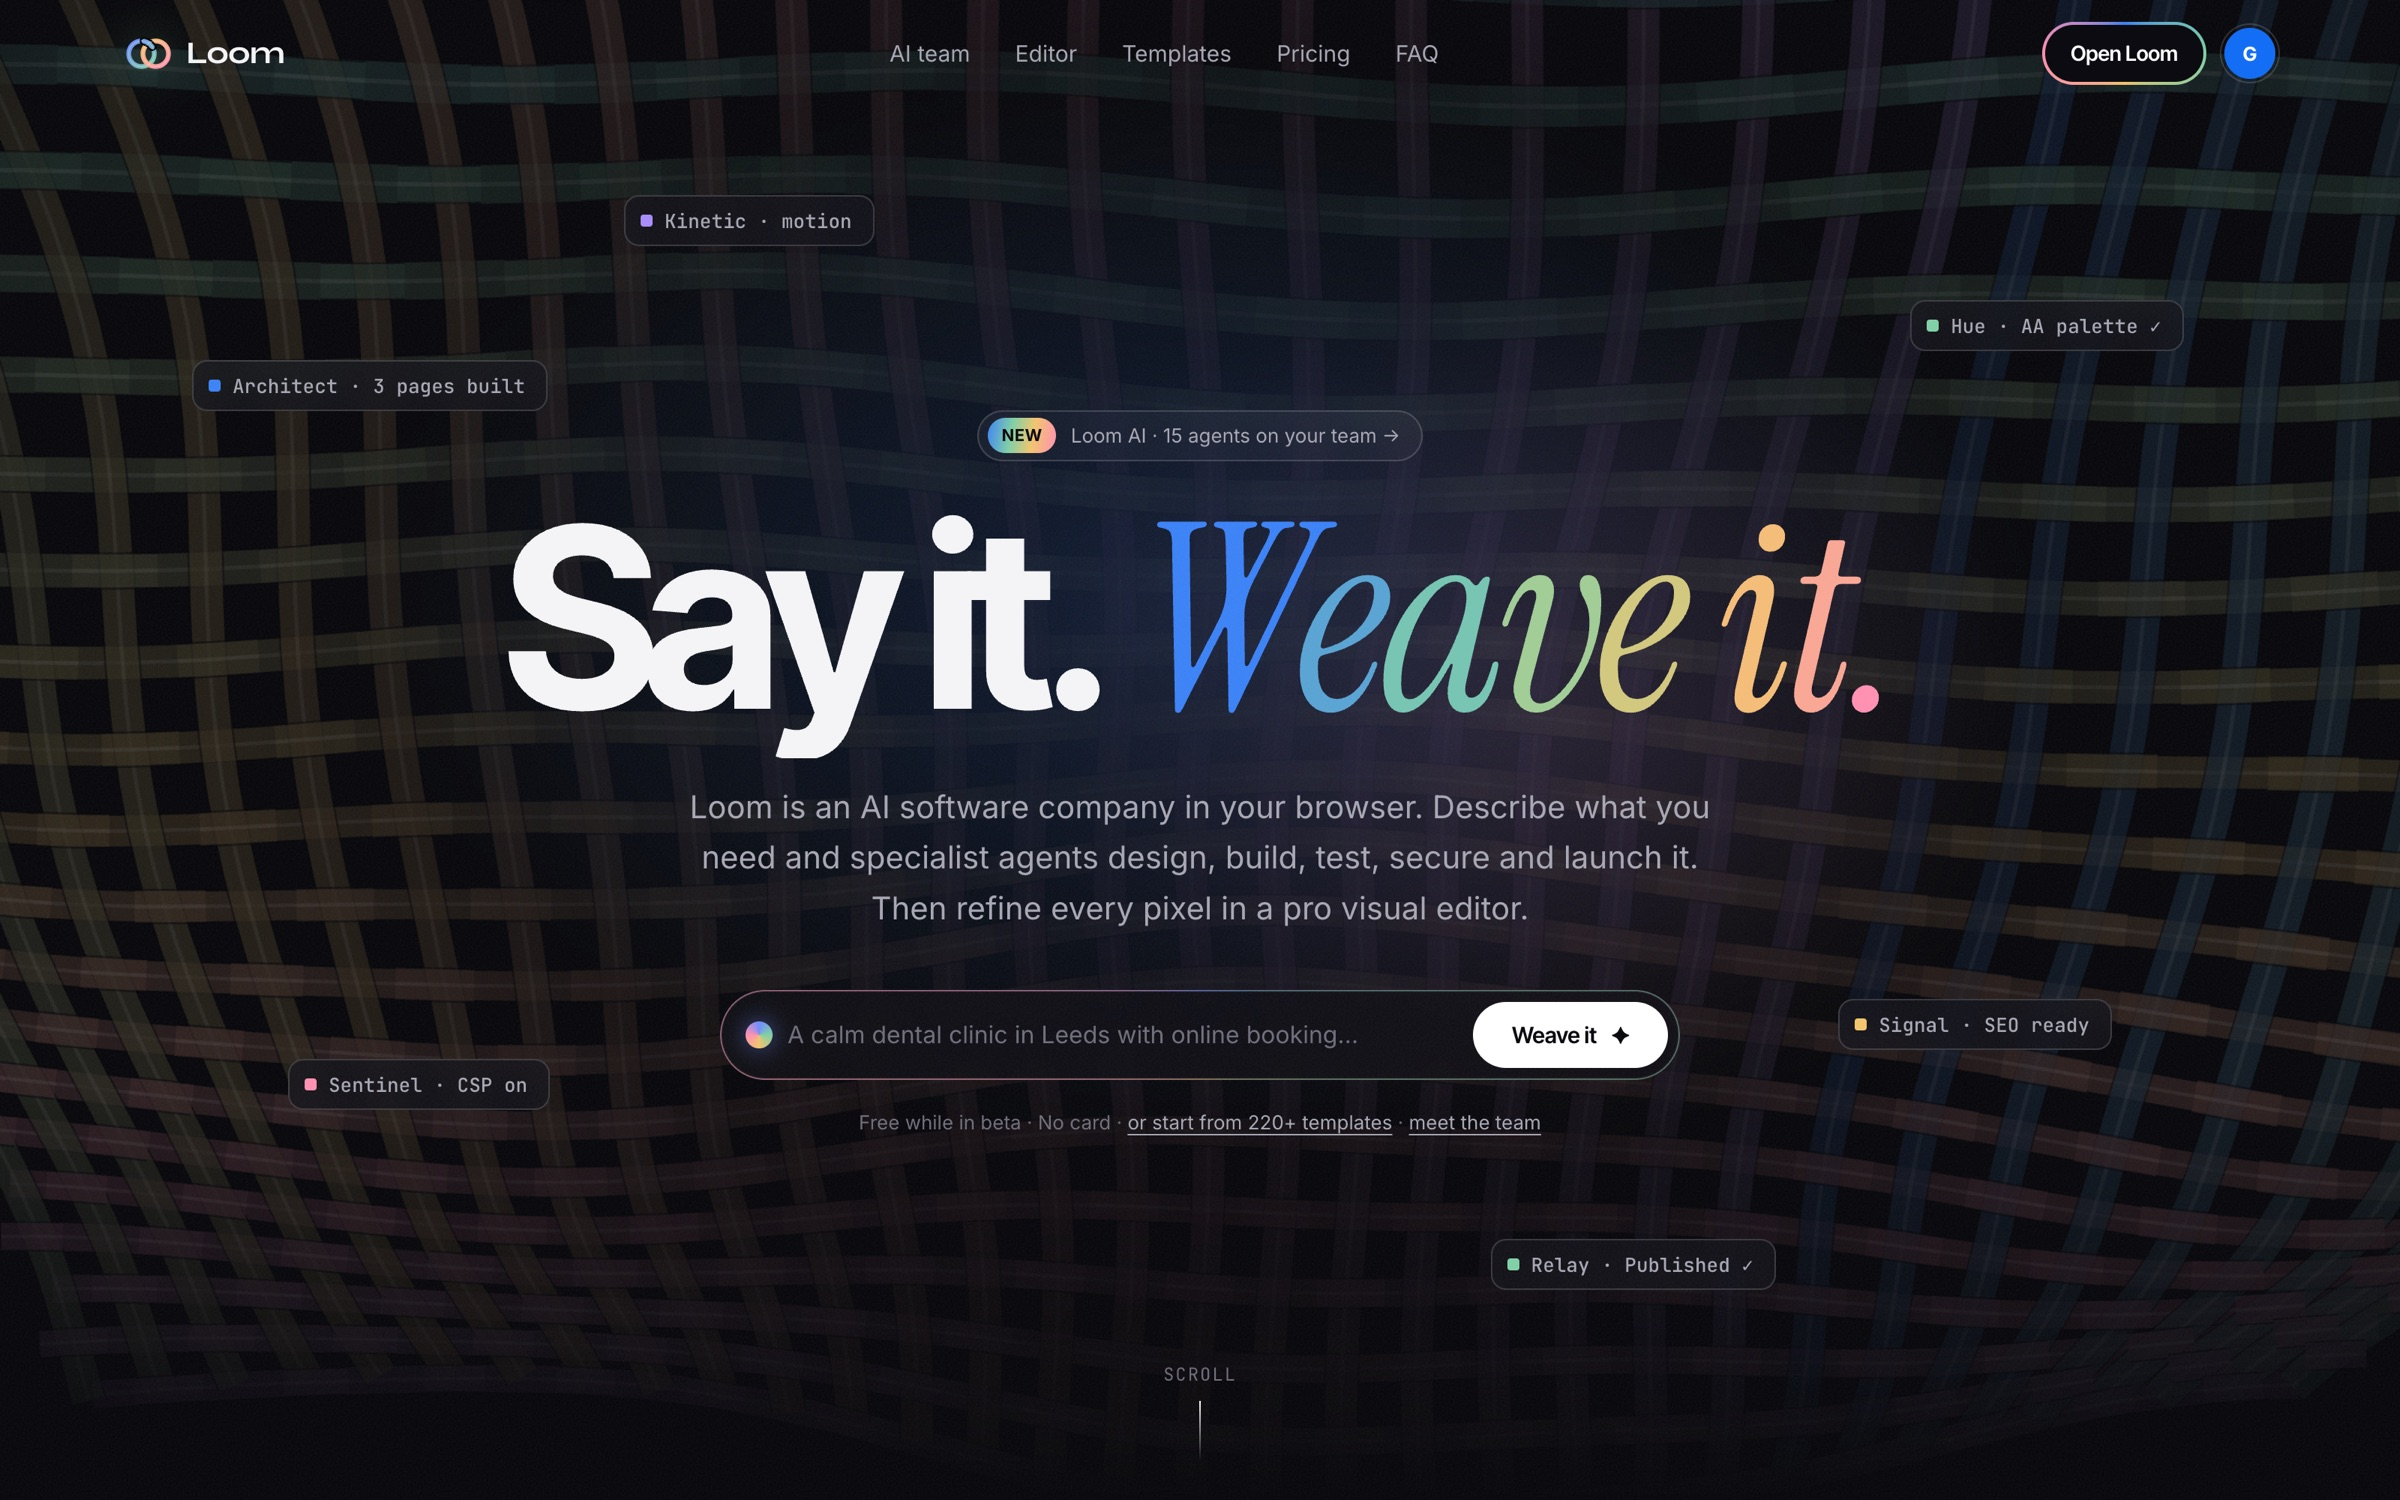
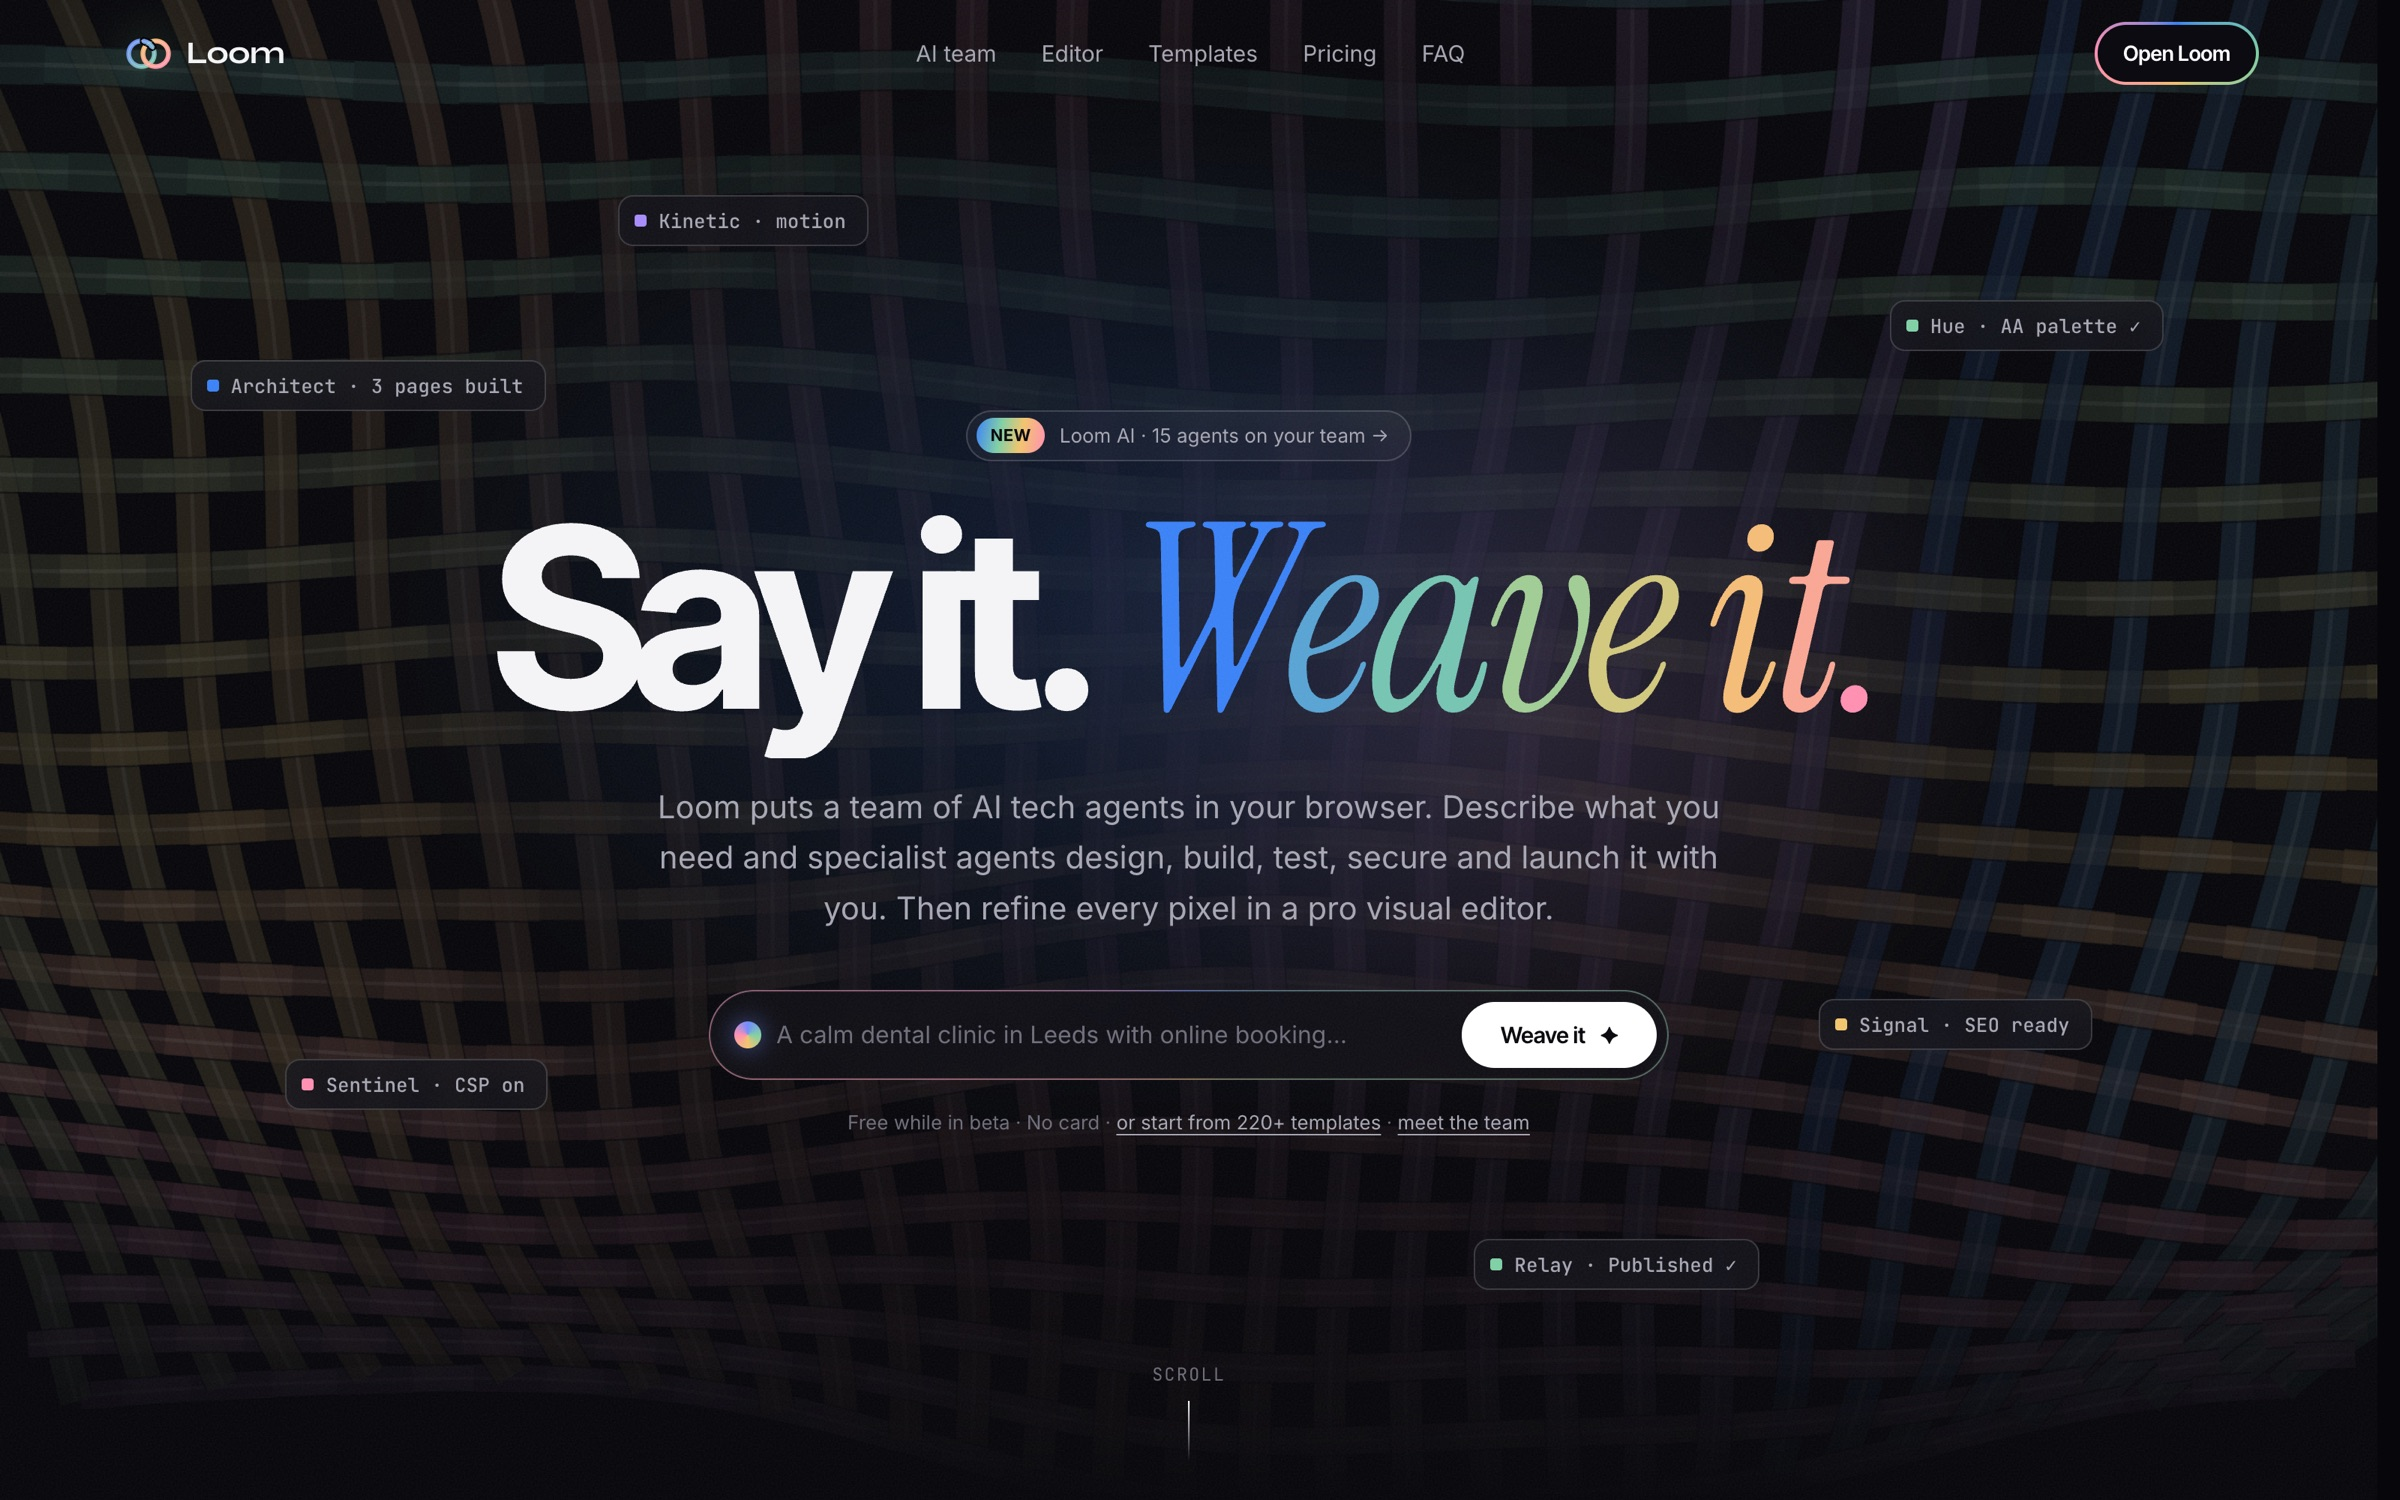
Loom copy: 'AI tech agents' instead of 'AI software company' (landing, prompts, README, case study + cover)

diff --git a/loom/index.html b/loom/index.html
@@ -3,10 +3,10 @@
 <head>
   <meta charset="utf-8">
   <meta name="viewport" content="width=device-width, initial-scale=1, viewport-fit=cover">
-  <title>Loom — Your AI software company</title>
+  <title>Loom — AI tech agents that build with you</title>
   <meta name="description" content="Describe it and 15 AI agents design, build, test, secure and launch your website. Then refine every pixel in a pro visual editor and publish clean HTML & CSS.">
   <meta property="og:title" content="Loom — Say it. Weave it.">
-  <meta property="og:description" content="An AI software company in your browser: 15 specialist agents plus a professional visual editor.">
+  <meta property="og:description" content="AI tech agents in your browser: specialists that design, build, test and launch your site with you, plus a professional visual editor.">
   <meta name="theme-color" content="#07070A">
   <link rel="icon" href="icon.svg" type="image/svg+xml">
   <link rel="preconnect" href="https://fonts.googleapis.com">
@@ -26,7 +26,7 @@
       <img class="splash__mark" src="logo-mark.svg" alt="" width="92" height="64" data-reveal>
       <p class="splash__kick mono" data-reveal>Welcome to</p>
       <p class="splash__word" data-reveal><span>L</span><span>o</span><span>o</span><span>m</span></p>
-      <p class="splash__sub" data-reveal>Your AI software company is ready.</p>
+      <p class="splash__sub" data-reveal>Your AI tech agents are ready.</p>
       <div class="splash__team" data-splash-team aria-label="Your agent team"></div>
       <p class="splash__ready mono" data-reveal>15 specialists + a Director · on call</p>
       <button class="splash__go" type="button" data-splash-go data-reveal tabindex="-1" aria-hidden="true"><span>Get started</span> <svg viewBox="0 0 24 24" aria-hidden="true"><path d="M5 12h14M13 6l6 6-6 6"/></svg></button>
@@ -71,7 +71,7 @@
       <div class="wrap hero__inner">
         <a class="pill" href="#agents" data-hero-in><b>NEW</b> Loom AI · 15 agents on your team →</a>
         <h1 class="hero__title" id="hero-title" data-hero-title>Say it. <em class="grad-text">Weave it.</em></h1>
-        <p class="hero__sub" data-hero-in>Loom is an AI software company in your browser. Describe what you need and specialist agents design, build, test, secure and launch it. Then refine every pixel in a pro visual editor.</p>
+        <p class="hero__sub" data-hero-in>Loom puts a team of AI tech agents in your browser. Describe what you need and specialist agents design, build, test, secure and launch it with you. Then refine every pixel in a pro visual editor.</p>
         <form class="hprompt" data-hero-in data-hprompt>
           <span class="hprompt__orb" aria-hidden="true"></span>
           <label class="sr" for="hp-in">Describe your website</label>
@@ -91,7 +91,7 @@
     <!-- AI TEAM -->
     <section class="sec agents" id="agents" aria-labelledby="agents-title">
       <div class="wrap">
-        <div class="shead"><p class="eyebrow mono">Loom AI</p><h2 id="agents-title" data-split>An AI software company, <em>on call.</em></h2><p data-rv>Fifteen specialists plan, build, check and launch together, coordinated by a Director that understands plain language. Every change they make is a normal, editable element, and every run can be undone.</p></div>
+        <div class="shead"><p class="eyebrow mono">Loom AI</p><h2 id="agents-title" data-split>AI tech agents, <em>on call.</em></h2><p data-rv>Fifteen specialists plan, build, check and launch together, coordinated by a Director that understands plain language. Every change they make is a normal, editable element, and every run can be undone.</p></div>
         <div class="orch" data-rv aria-hidden="true">
           <div class="orch__prompt"><span class="orch__you mono">You</span><span class="orch__text" data-orch-text></span><i class="orch__caret"></i></div>
           <div class="orch__route mono" data-orch-route>Director is listening…</div>
@@ -246,7 +246,7 @@
   <footer class="sfoot">
     <div class="wrap">
       <div class="sfoot__grid">
-        <div><a class="slogo" href="index.html"><i aria-hidden="true"></i>Loom</a><p style="margin-top:14px;max-width:34ch">An AI software company and a professional visual editor, for teams who care about structure, systems and craft.</p></div>
+        <div><a class="slogo" href="index.html"><i aria-hidden="true"></i>Loom</a><p style="margin-top:14px;max-width:34ch">AI tech agents and a professional visual editor, for teams who care about structure, systems and craft.</p></div>
         <div><h4>Product</h4><ul><li><a href="#product">How it works</a></li><li><a href="#features">Features</a></li><li><a href="#templates">Templates</a></li><li><a href="#pricing">Pricing</a></li></ul></div>
         <div><h4>Account</h4><ul><li><a href="auth.html?next=app.html">Log in</a></li><li><a href="auth.html?mode=signup&amp;next=app.html">Create account</a></li><li><a href="account.html">Profile &amp; settings</a></li><li><a href="app.html">Your projects</a></li></ul></div>
         <div><h4>Legal</h4><ul><li><a href="legal/terms.html">Terms &amp; Conditions</a></li><li><a href="legal/privacy.html">Privacy Policy</a></li><li><a href="legal/cookies.html">Cookie Policy</a></li><li><a href="mailto:mutaher.ux@gmail.com">Contact</a></li></ul></div>

diff --git a/content/content.js b/content/content.js
@@ -285,7 +285,7 @@ window.SITE_CONTENT = {
     {
       "slug": "loom",
       "title": "Loom AI",
-      "subtitle": "An AI software company in your browser",
+      "subtitle": "AI tech agents that build with you",
       "category": "AI Product",
       "year": "2026",
       "role": "Founder · Product Designer · Design Engineer",
@@ -336,7 +336,7 @@ window.SITE_CONTENT = {
         {
           "type": "text",
           "heading": "The idea",
-          "body": "<p>Most people who need a website don’t need a website builder. They need the <strong>team</strong> behind one: someone to plan it, design it, write it, check it and put it live.</p><p>Loom is my answer. You talk to it the way you’d talk to an agency. Behind the chat, a Director hands the work to specialists (an architect, a brand designer, a copywriter, QA, security, SEO, DevOps) and every change lands as normal, editable elements in a Webflow-style visual editor. <em>Say it. Weave it.</em></p>"
+          "body": "<p>Most people who need a website don’t need a website builder. They need the <strong>team</strong> behind one: someone to plan it, design it, write it, check it and put it live.</p><p>Loom is my answer. You talk to it the way you’d brief a tech team. Behind the chat, a Director hands the work to specialists (an architect, a brand designer, a copywriter, QA, security, SEO, DevOps) and every change lands as normal, editable elements in a Webflow-style visual editor. <em>Say it. Weave it.</em></p>"
         },
         {
           "type": "image",

diff --git a/loom_ai.py b/loom_ai.py
@@ -87,7 +87,7 @@ CTO = {'type': 'object', 'additionalProperties': False, 'required': ['reply', 'b
     'chips': {'type': 'array', 'items': {'type': 'string'}, 'description': '3-6 short quick replies for the client.'}}}
 
 # ------------------------------------------------------------------ agents
-BASE = """You are one specialist in Loom's AI software company. Loom is a visual website builder used by
+BASE = """You are one of Loom's AI tech agents, a team of specialists. Loom is a visual website builder used by
 enterprise teams and non-coders. Everything you produce is applied to a real project the client can then
 edit by hand, so be concrete, production-ready and brief. Write real copy, never lorem ipsum. Keep claims
 honest: invent no testimonials attributed to real people, no fake statistics presented as fact (label

diff --git a/README.md b/README.md
@@ -10,7 +10,7 @@ python3 server.py
 ```
 Then open http://localhost:5174. `server.py` serves the site and lets the CMS, design system and palette lab **save straight into this folder** from any browser, with no folder picker. It only runs on your computer, and it can only write `tokens.css`, `content/content.js` and files in `assets/work/` and `assets/video/`. Plain `python3 -m http.server` still shows the site, but saving then falls back to Chrome's folder picker or a download.
 
-## Loom — AI software company + visual website editor
+## Loom — AI tech agents + visual website editor
 | Page | What it is |
 |---|---|
 | `loom/index.html` | **Landing page:** splash screen, woven hero with "describe your site" prompt, AI team demo, product tour, features, templates, pricing, FAQ |
